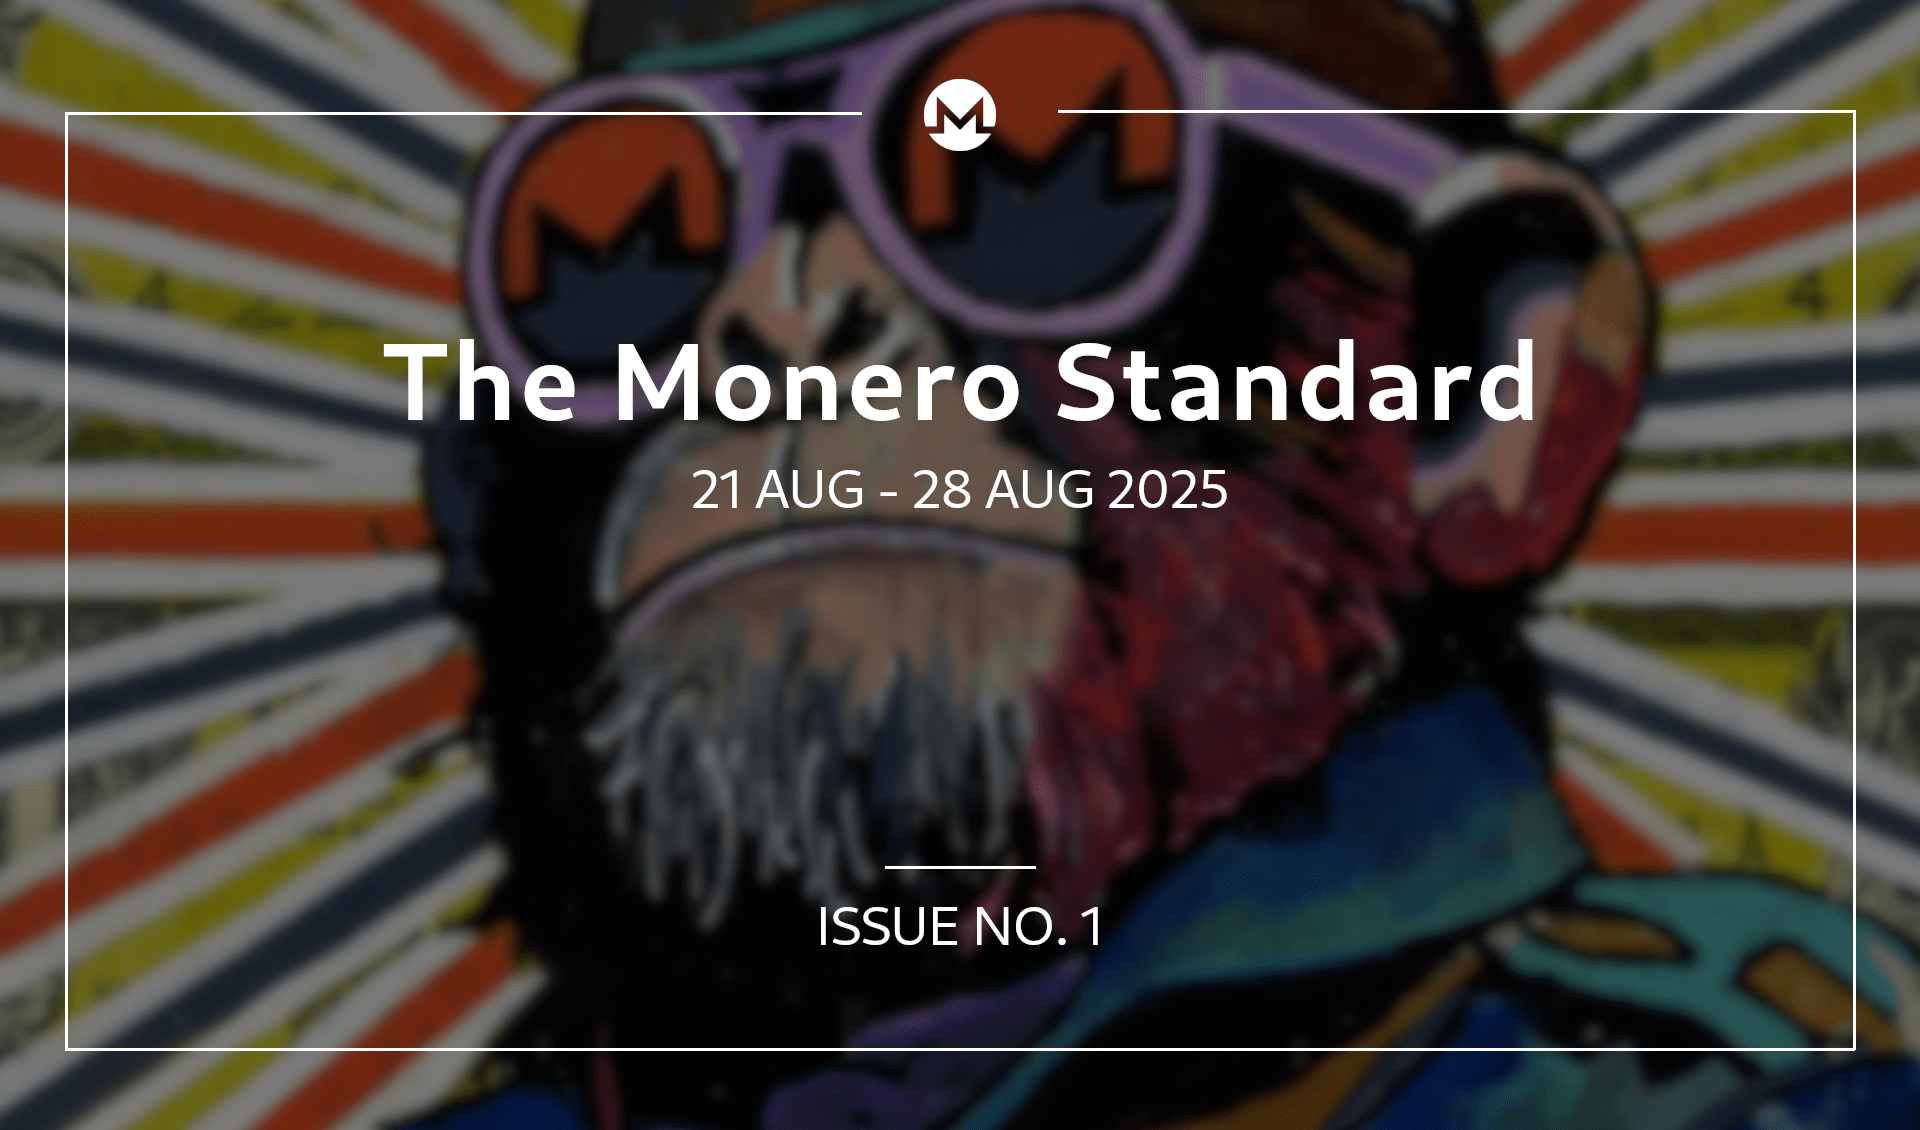
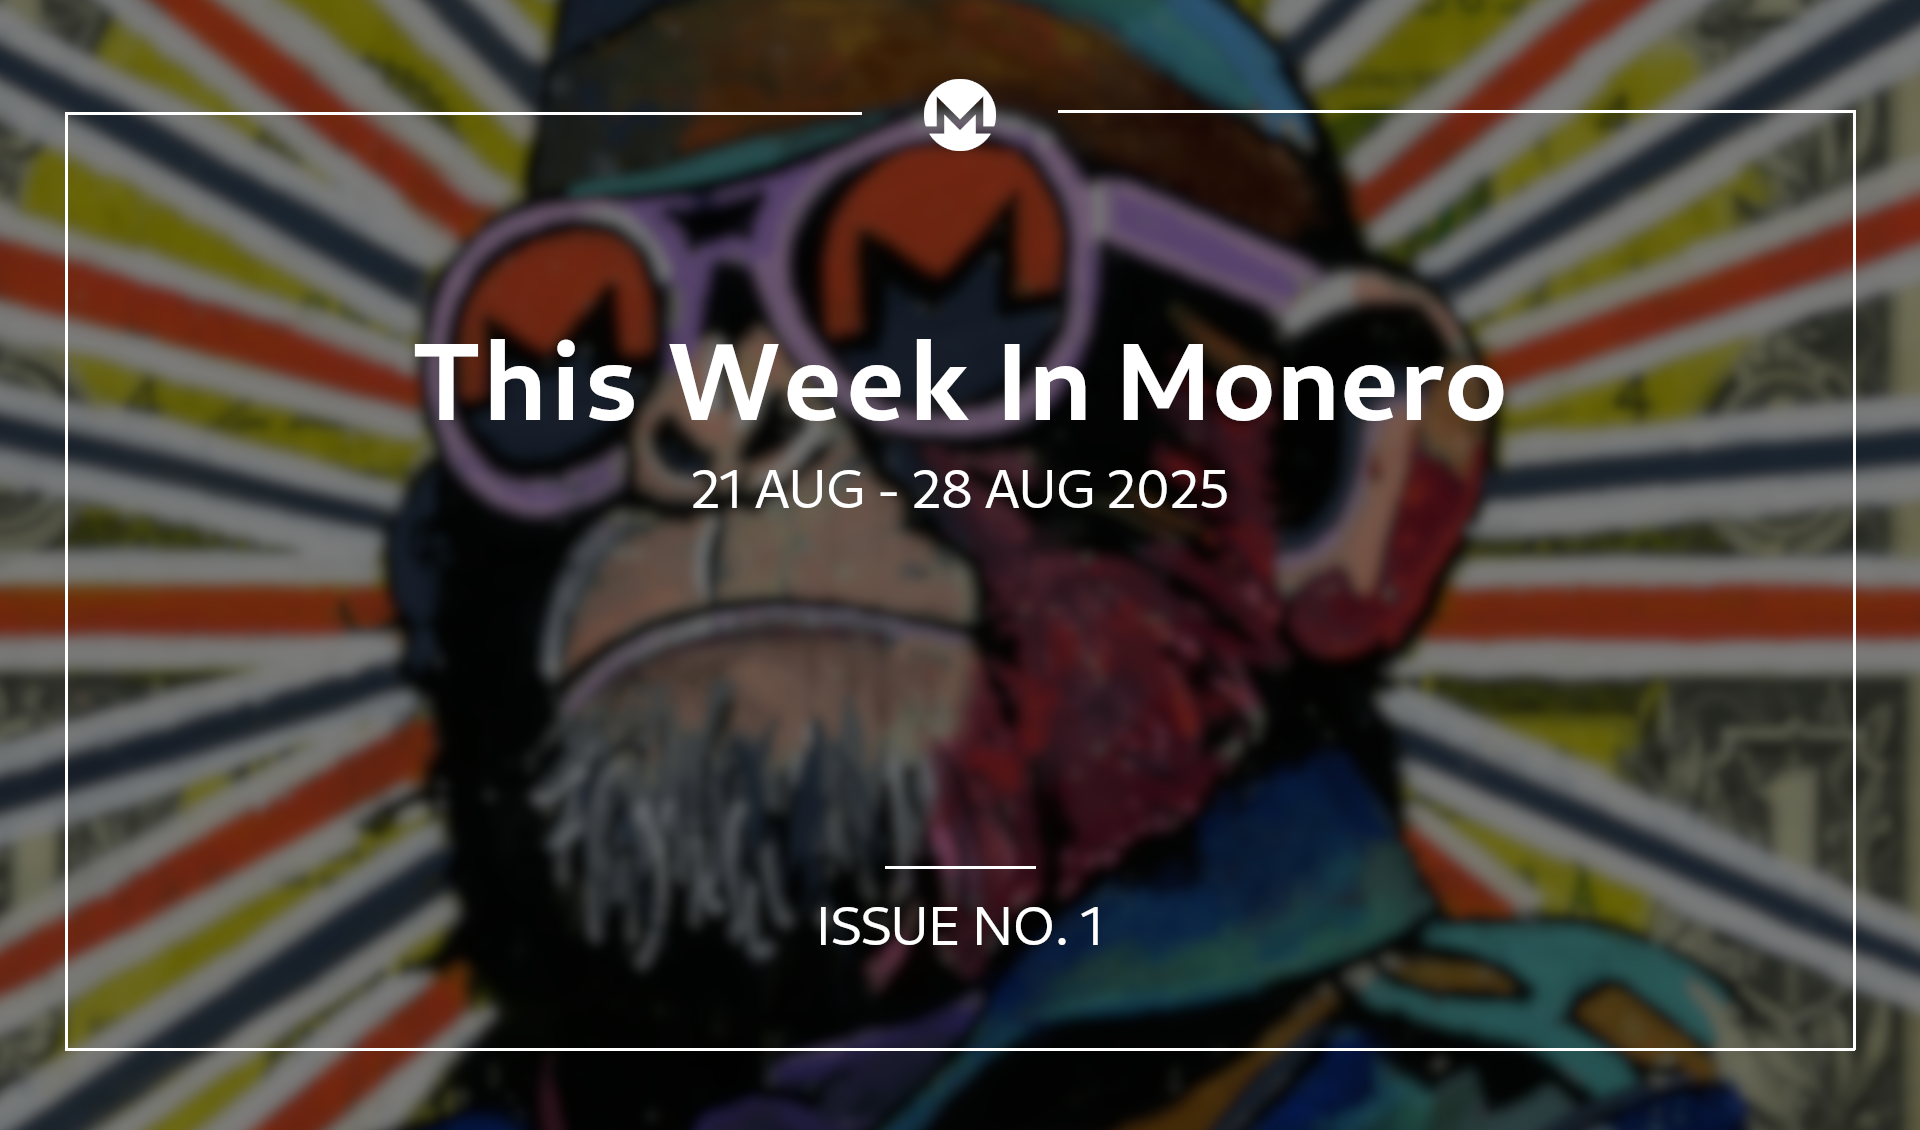
retroactively change name to twim

diff --git a/content/blog/twim-1.md b/content/blog/twim-1.md
@@ -1,5 +1,5 @@
 ---
-title: "The Monero Standard #1: 21 Aug 2025 - 28 Aug 2025"
+title: "This Week In Monero #1: 21 Aug 2025 - 28 Aug 2025"
 description: "New Monero release, plausible deniability in polls, and more."
 date: 2025-08-28T12:00:00+00:00
 image: "/blog/images/ms-1/cover.png"
@@ -8,7 +8,7 @@ author: "recanman"
 ---
 <!-- ![](/blog/images/ms-1/head.png) -->
 
-The Monero Standard is back! We're restarting with issue #1, bringing you the latest news and updates from the Monero ecosystem.
+Welcome to the first issue of This Week In Monero! Your new weekly update on everything Monero, brought to you by Cyphergoat.com and written by the author of the Monero Standard.
 
 ### Table of Contents
 
